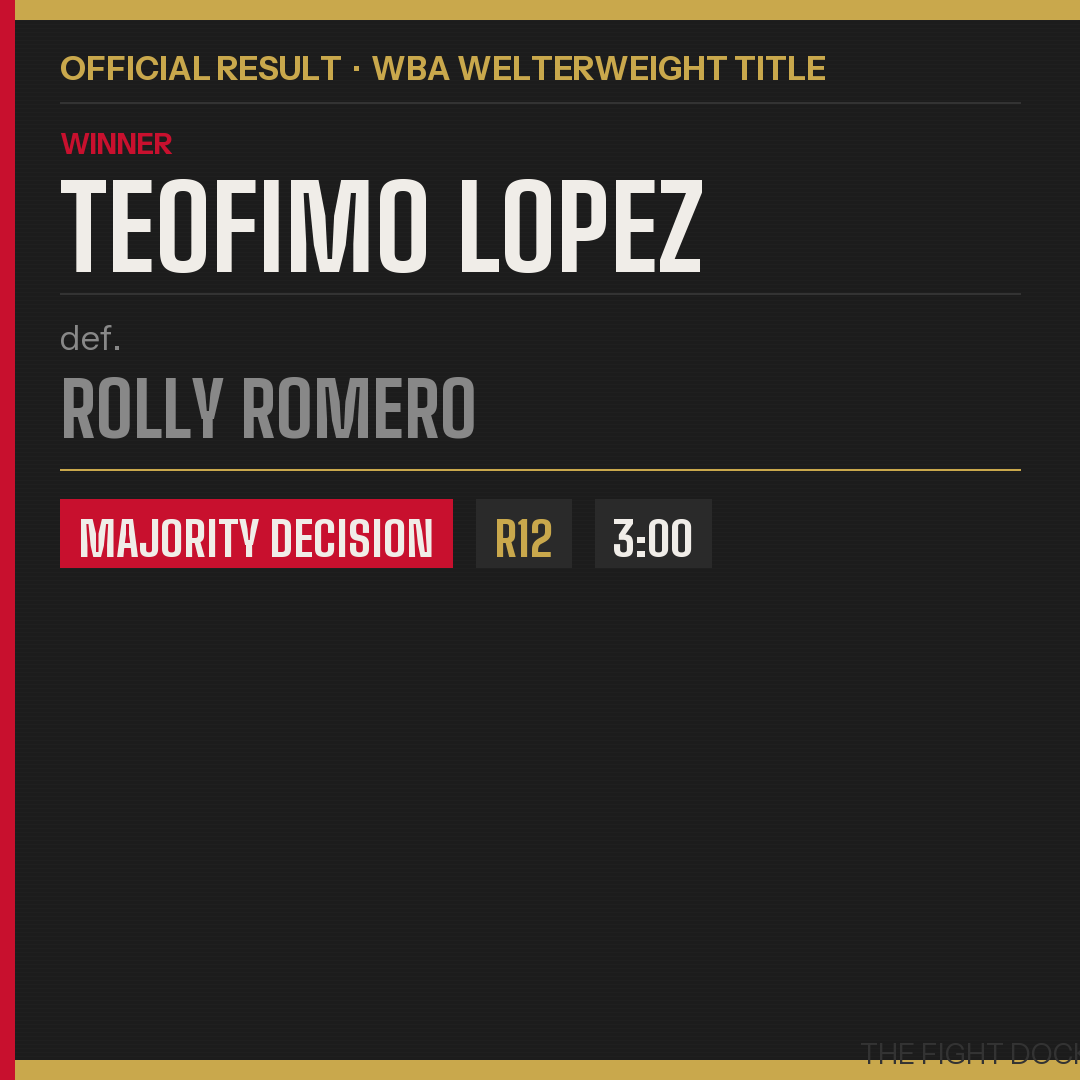
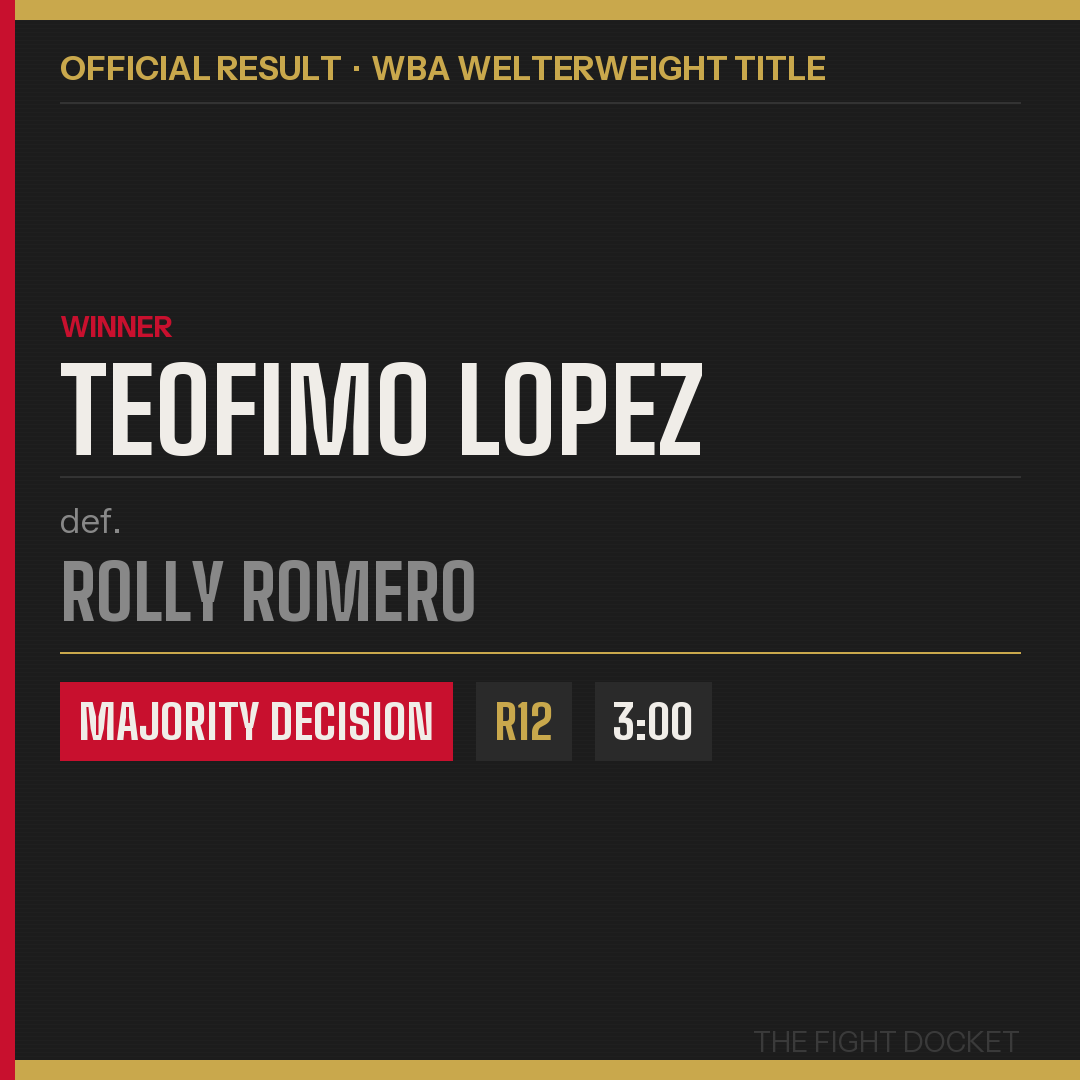
Fix IG card template: clipped watermark, dead space, duplicate brand mark
- _watermark() hardcoded x at W-220, assuming the string rendered exactly
  220px wide. It does not, so "THE FIGHT DOCKET" ran off the right edge on
  every card. Measure the text and right-align it against a real margin.
- fight_result laid out from a fixed y, so a short winner/loser pair left
  ~500px of dead space. Measure the block first, then place it, biased
  upward so it does not leave a hole under the header.
- quote_card pinned the attribution at y=870 regardless of quote length,
  and called _watermark() on top of its own brand strip, printing
  "THE FIGHT DOCKET" twice. Attribution now follows the quote; the
  duplicate watermark is gone.

Regenerated all four 2026-08-24 cards.

diff --git a/ig_templates.py b/ig_templates.py
@@ -59,9 +59,19 @@ def _red_bar(d, side="left", thickness=14):
 def _rule(d, y, color=GOLD, margin=60, thickness=2):
     d.line([(margin, y),(W-margin, y)], fill=color, width=thickness)
 
-def _watermark(d):
+def _watermark(d, fill="#3A3A3A", margin=60, baseline=None):
+    """Right-aligned brand mark.
+
+    The x position used to be hardcoded at W-220, which assumed the string
+    rendered exactly 220px wide. It does not, so the mark ran off the right
+    edge and "THE FIGHT DOCKET" was clipped mid-word. Measure it instead.
+    """
     f = _font("InstrumentSans-Regular.ttf", 28)
-    d.text((W-220, H-44), "THE FIGHT DOCKET", font=f, fill="#333333")
+    text = "THE FIGHT DOCKET"
+    bbox = d.textbbox((0, 0), text, font=f)
+    tw, th = bbox[2] - bbox[0], bbox[3] - bbox[1]
+    y = (H - 34 - th) if baseline is None else baseline
+    d.text((W - margin - tw, y), text, font=f, fill=fill)
 
 def _wrap_text(d, text, font, x, y, max_width, fill=WHITE, line_spacing=1.25):
     """Draw wrapped text, return final y position."""
@@ -257,46 +267,61 @@ def fight_result(winner, loser, method, round_num, time, event, filename="fight_
     d.text((60, 48), f"OFFICIAL RESULT  ·  {event.upper()}", font=res_f, fill=GOLD)
     _rule(d, 102, margin=60, color="#333333")
 
-    # WINNER label
+    # Fonts and sizes first, so the block can be measured before it is drawn.
+    # Previously every y was fixed from the top, so a short winner/loser pair
+    # left roughly 500px of dead space at the bottom of the card.
     win_label_f = _font("InstrumentSans-Bold.ttf", 28)
-    d.text((60, 126), "WINNER", font=win_label_f, fill=RED)
-
-    # Winner name — massive
     w_size  = min(160, max(70, 160 - max(0, len(winner)-8)*9))
     win_f   = _font("BigShoulders-Bold.ttf", w_size)
-    d.text((60, 158), winner.upper(), font=win_f, fill=WHITE)
+    def_f   = _font("InstrumentSans-Regular.ttf", 34)
+    l_size  = min(100, max(50, 100 - max(0, len(loser)-8)*6))
+    los_f   = _font("BigShoulders-Bold.ttf", l_size)
+    chip_f  = _font("BigShoulders-Bold.ttf", 48)
 
-    # Thin rule under winner
-    winner_bbox = d.textbbox((60,158), winner.upper(), font=win_f)
-    _rule(d, winner_bbox[3] + 20, margin=60, color="#333333")
+    def _h(text, font):
+        b = d.textbbox((0, 0), text, font=font)
+        return b[3]
 
-    # DEF. label
-    def_y = winner_bbox[3] + 44
-    def_f = _font("InstrumentSans-Regular.ttf", 34)
-    d.text((60, def_y), "def.", font=def_f, fill="#888888")
+    win_h  = _h(winner.upper(), win_f)
+    los_h  = _h(loser.upper(), los_f)
+    chip_h = _h("Ag", chip_f) + 20
 
-    # Loser name
-    l_size = min(100, max(50, 100 - max(0, len(loser)-8)*6))
-    los_f  = _font("BigShoulders-Bold.ttf", l_size)
-    d.text((60, def_y + 46), loser.upper(), font=los_f, fill="#888888")
-    loser_bbox = d.textbbox((60, def_y+46), loser.upper(), font=los_f)
+    # Offsets within the block, mirroring the original rhythm.
+    off_winner = 32                       # WINNER label -> winner name
+    off_rule1  = off_winner + win_h + 20
+    off_def    = off_winner + win_h + 44
+    off_loser  = off_def + 46
+    off_rule2  = off_loser + los_h + 30
+    off_chips  = off_loser + los_h + 60
+    block_h    = off_chips + chip_h
 
-    _rule(d, loser_bbox[3] + 30, margin=60)
+    # Sit the block between the header rule and the gold bottom band, biased
+    # upward. True centring leaves a hole under the header, because the header
+    # is anchored to the top and reads as part of the same group.
+    area_top, area_bottom = 126, H - 20
+    slack = max(0, (area_bottom - area_top) - block_h)
+    top = area_top + int(slack * 0.38)
+
+    d.text((60, top), "WINNER", font=win_label_f, fill=RED)
+    d.text((60, top + off_winner), winner.upper(), font=win_f, fill=WHITE)
+    _rule(d, top + off_rule1, margin=60, color="#333333")
+    d.text((60, top + off_def), "def.", font=def_f, fill="#888888")
+    d.text((60, top + off_loser), loser.upper(), font=los_f, fill="#888888")
+    _rule(d, top + off_rule2, margin=60)
 
     # Method / Round / Time chips
-    info_y  = loser_bbox[3] + 60
+    info_y = top + off_chips
     chip_data = [(method.upper(), RED, WHITE), (round_num.upper(), MGRAY, GOLD), (time, MGRAY, WHITE)]
     cx = 60
-    chip_f = _font("BigShoulders-Bold.ttf", 48)
     gap = 24
     for label, bg_c, fg_c in chip_data:
         bbox = d.textbbox((0,0), label, font=chip_f)
-        cw   = bbox[2] + 36; ch = bbox[3] + 20
-        d.rectangle([(cx, info_y),(cx+cw, info_y+ch)], fill=bg_c)
+        cw   = bbox[2] + 36
+        d.rectangle([(cx, info_y),(cx+cw, info_y+chip_h)], fill=bg_c)
         d.text((cx+18, info_y+10), label, font=chip_f, fill=fg_c)
         cx += cw + gap
 
-    _watermark(d)
+    _watermark(d, baseline=H - 56)
     path = f"{OUT}/{filename}"
     img.save(path, "PNG")
     print(f"✓ Saved: {path}")
@@ -336,19 +361,22 @@ def quote_card(quote, attribution, context="", filename="quote_card.png"):
     # Quote text — large, centered-left
     q_font_size = 68 if len(quote) < 80 else 54 if len(quote) < 120 else 44
     q_font = _font("Lora-Bold.ttf", q_font_size)
-    _wrap_text(d, f"\u201C{quote}\u201D", q_font, 60, 190, 940, fill=WHITE, line_spacing=1.35)
+    quote_end = _wrap_text(d, f"\u201C{quote}\u201D", q_font, 60, 190, 940, fill=WHITE, line_spacing=1.35)
 
-    # Attribution
-    _rule(d, 870, margin=60)
+    # Attribution follows the quote instead of being pinned at a fixed y=870,
+    # which stranded it far below any short quote. Clamped so it cannot
+    # collide with the bottom brand strip.
+    attr_rule_y = min(max(quote_end + 60, 400), H - 210)
+    _rule(d, attr_rule_y, margin=60)
     attr_f = _font("InstrumentSans-Regular.ttf", 36)
-    d.text((60, 892), f"— {attribution}", font=attr_f, fill=GOLD)
+    d.text((60, attr_rule_y + 22), f"— {attribution}", font=attr_f, fill=GOLD)
 
     # Bottom brand strip
     d.rectangle([(0, H-64),(W, H)], fill="#111111")
     brand_f = _font("BigShoulders-Bold.ttf", 38)
     d.text((60, H-52), "THE FIGHT DOCKET", font=brand_f, fill=RED)
-
-    _watermark(d)
+    # No _watermark() here: this card already prints the name bottom-left,
+    # so calling it rendered "THE FIGHT DOCKET" twice on the same strip.
     path = f"{OUT}/{filename}"
     img.save(path, "PNG")
     print(f"✓ Saved: {path}")
